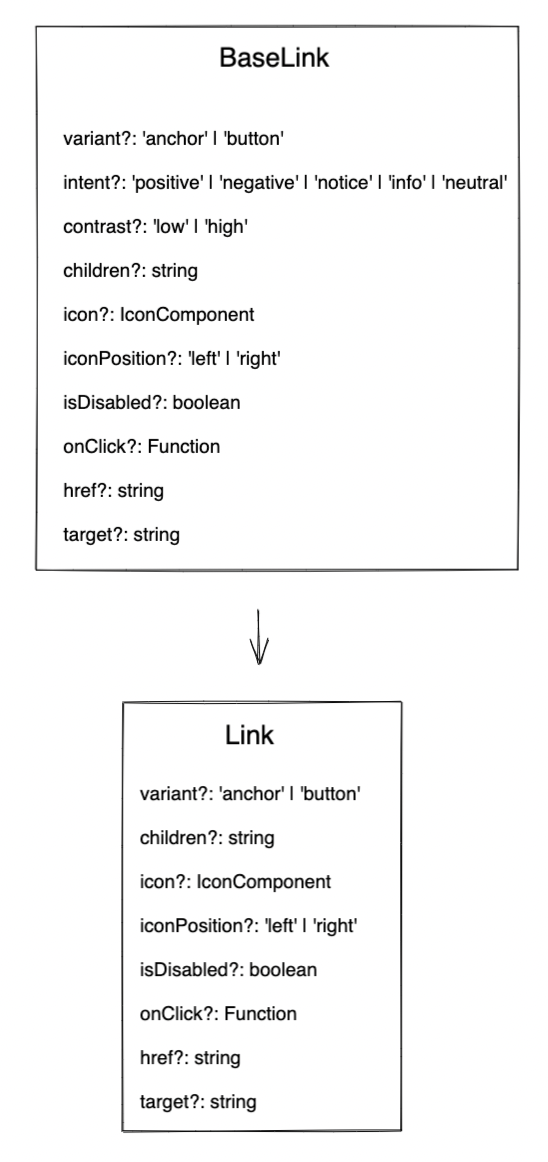
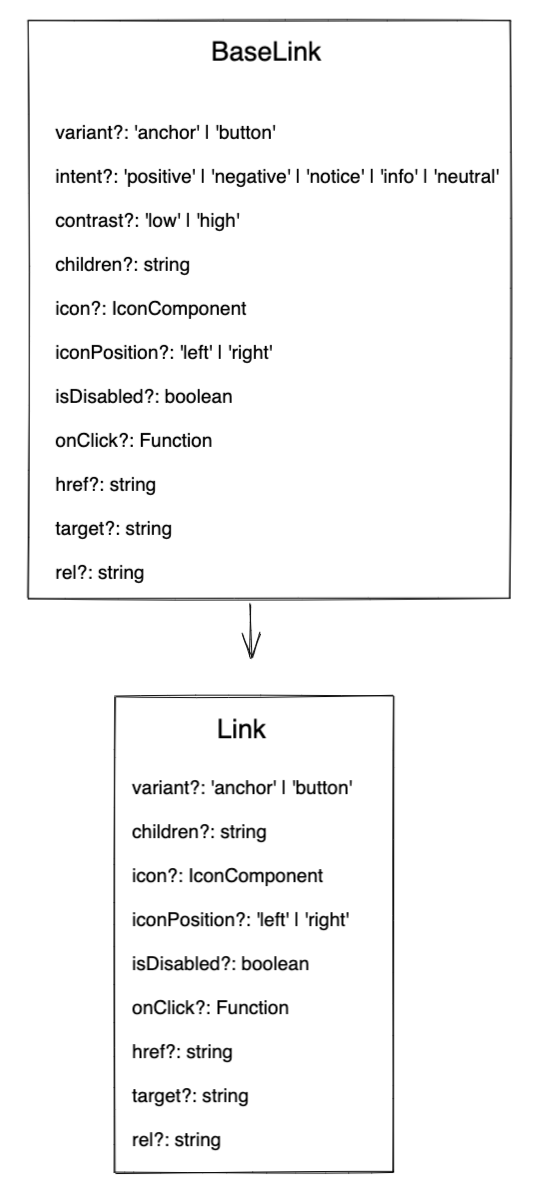
chore: add `rel` prop

diff --git a/packages/blade/src/components/Link/_decisions/decisions.md b/packages/blade/src/components/Link/_decisions/decisions.md
@@ -28,6 +28,7 @@ Internal component that exposes certain extra props to enable creation of Compon
 | onClick | `Function` | No | undefined | The function to be called when the link is clicked. |
 | href | `string` | No | undefined | The href for the link component.<br><br>Note: This prop is only valid for `anchor` variant. |
 | target | `string` | No | undefined | The target for the link component.<br><br>Note: This prop is only valid for `anchor` variant. |
+| rel | `string` | No | undefined | The rel for the link component.<br><br>Note: This prop is only valid for `anchor` variant. |
 | accessibilityLabel | `string` | No | undefined | The `aria-label` (web) & `accessibilityLabel` (native) of the link component. |
 
 
@@ -46,6 +47,7 @@ A Link component that can act as a `<button>` as well as an `<anchor>` element. 
 | onClick | `Function` | No | undefined | The function to be called when the link is clicked. |
 | href | `string` | No | undefined | The href for the link component.<br><br>Note: This prop is only valid for `anchor` variant. |
 | target | `string` | No | undefined | The target for the link component.<br><br>Note: This prop is only valid for `anchor` variant. |
+| rel | `string` | No | undefined | The rel for the link component.<br><br>Note: This prop is only valid for `anchor` variant. |
 | accessibilityLabel | `string` | No | undefined | The `aria-label` (web) & `accessibilityLabel` (native) of the link component. |
 
      
